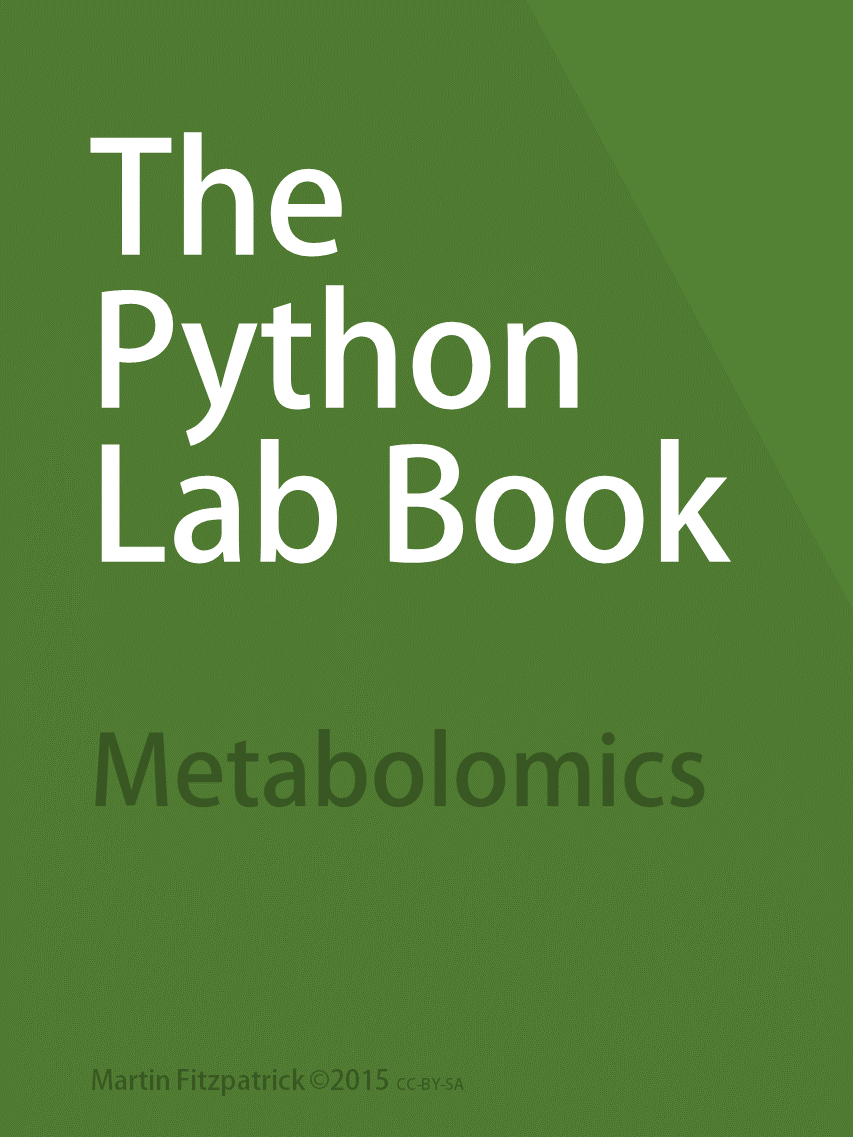
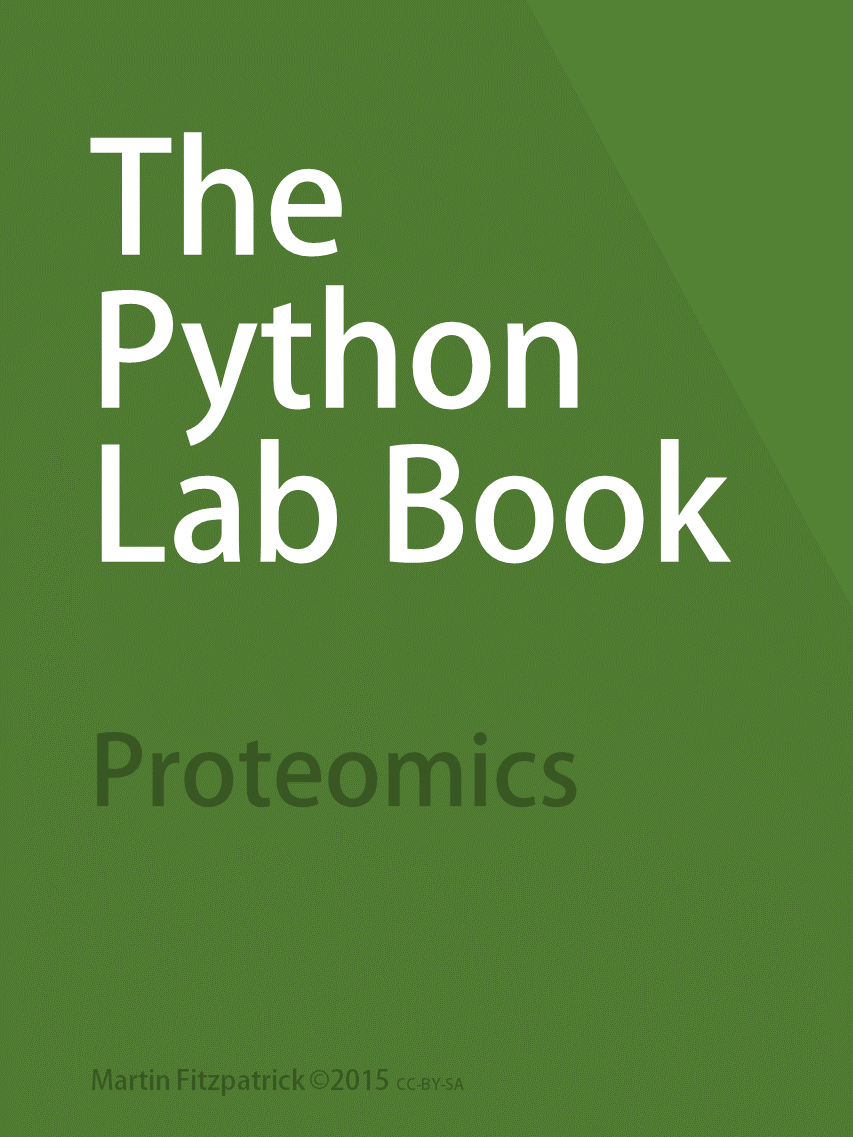
Shrink and fix covers

Changed region(s): [[0.1219, 0.6464, 0.823, 0.708]]

diff --git a/www/index.html b/www/index.html
@@ -6,9 +6,9 @@
 <body style="margin:1em;">
 
 <div class="container">
-    <div class="col-md-4"><a href="the-python-lab-book.html"><img src="img/the-python-lab-book.png" class="img-responsive" alt="The Python Lab Book"></a></div>
-    <div class="col-md-4"><a href="proteomics.html"><img src="img/proteomics.png" class="img-responsive" alt="The Python Lab Book: Proteomics"></a></div>
-    <div class="col-md-4"><a href="metabolomics.html"><img src="img/metabolomics.png" class="img-responsive" alt="The Python Lab Book: Metabolomics"></a></div>
+    <div class="col-md-4"><a href="the-python-lab-book.html"><img src="img/the-python-lab-book-sm.png" class="img-responsive" alt="The Python Lab Book"></a></div>
+    <div class="col-md-4"><a href="proteomics.html"><img src="img/proteomics-sm.png" class="img-responsive" alt="The Python Lab Book: Proteomics"></a></div>
+    <div class="col-md-4"><a href="metabolomics.html"><img src="img/metabolomics-sm.png" class="img-responsive" alt="The Python Lab Book: Metabolomics"></a></div>
 </div>
 
 </body>
